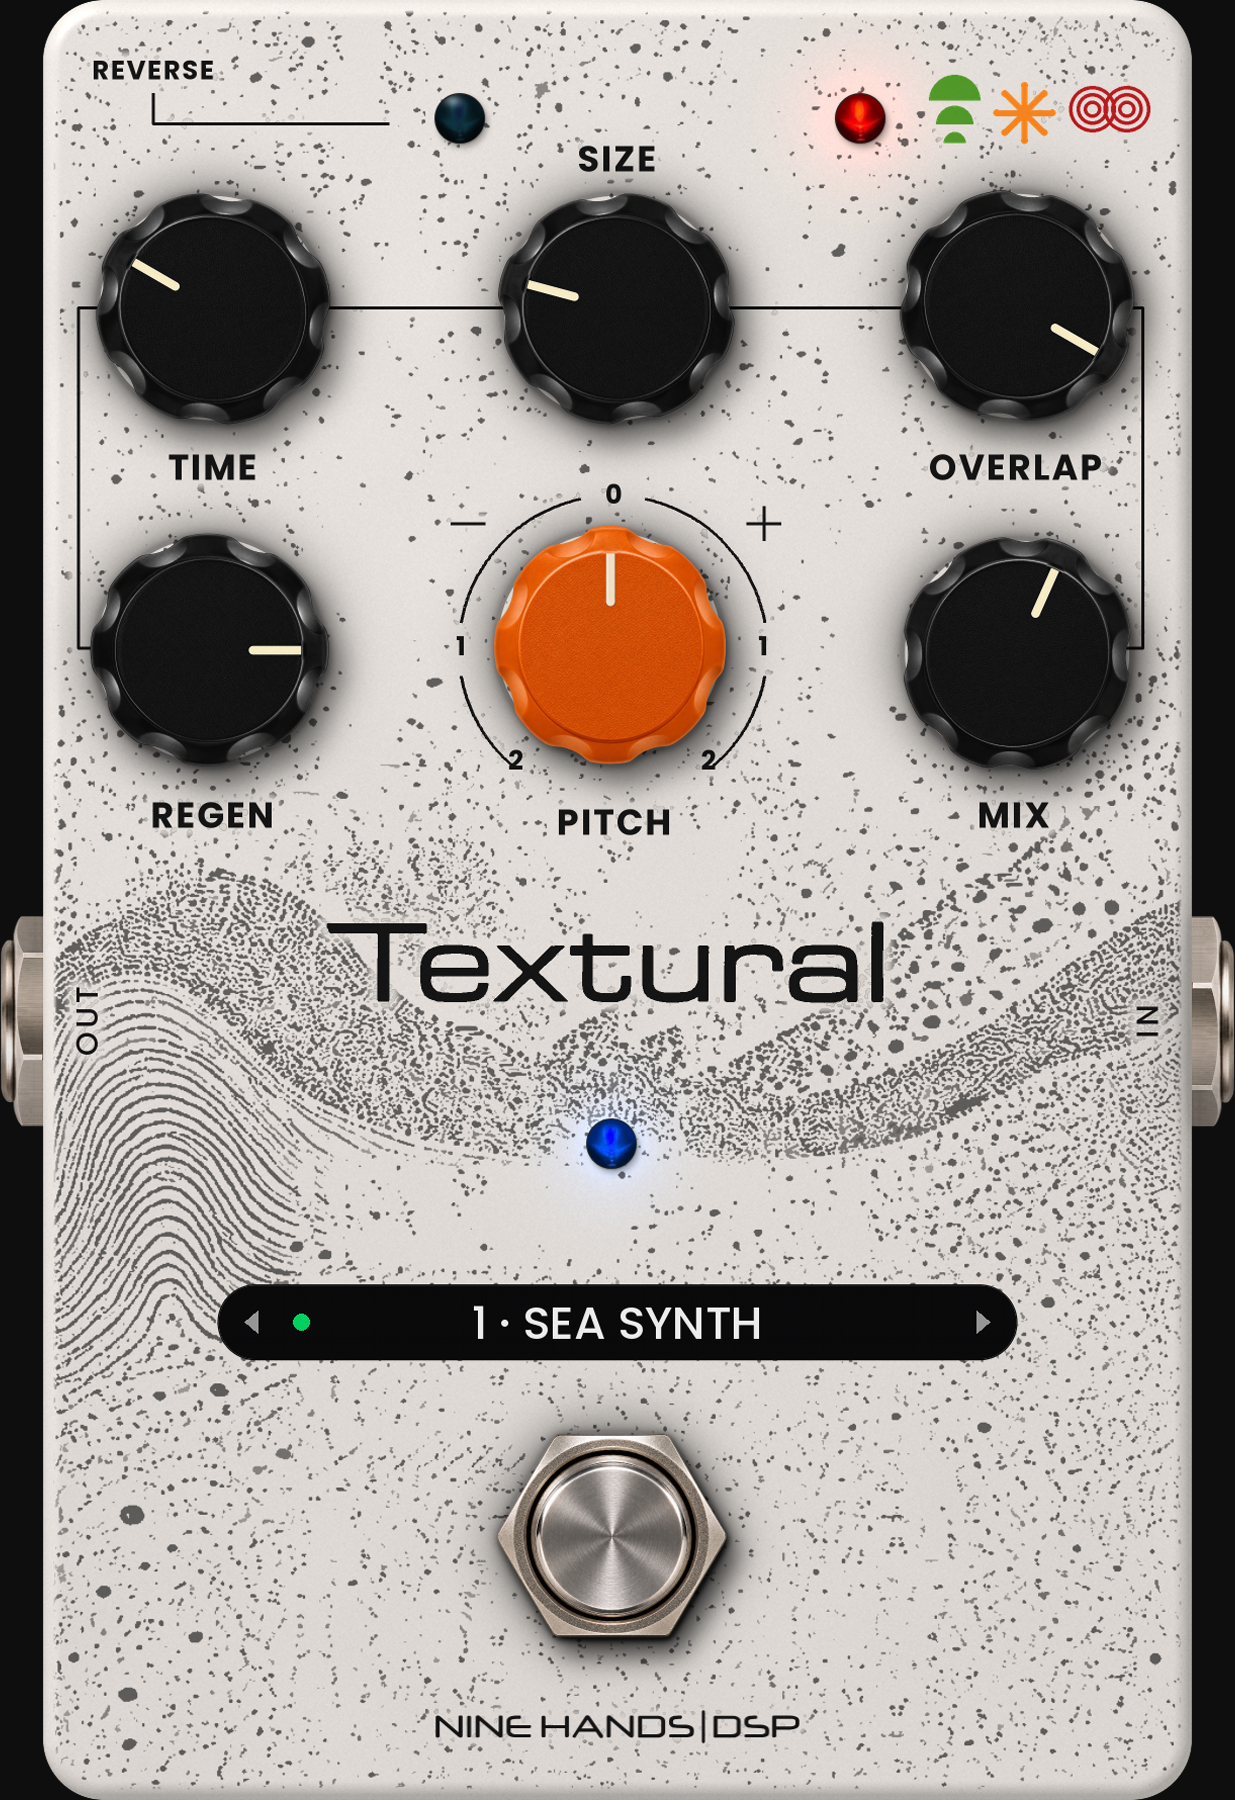
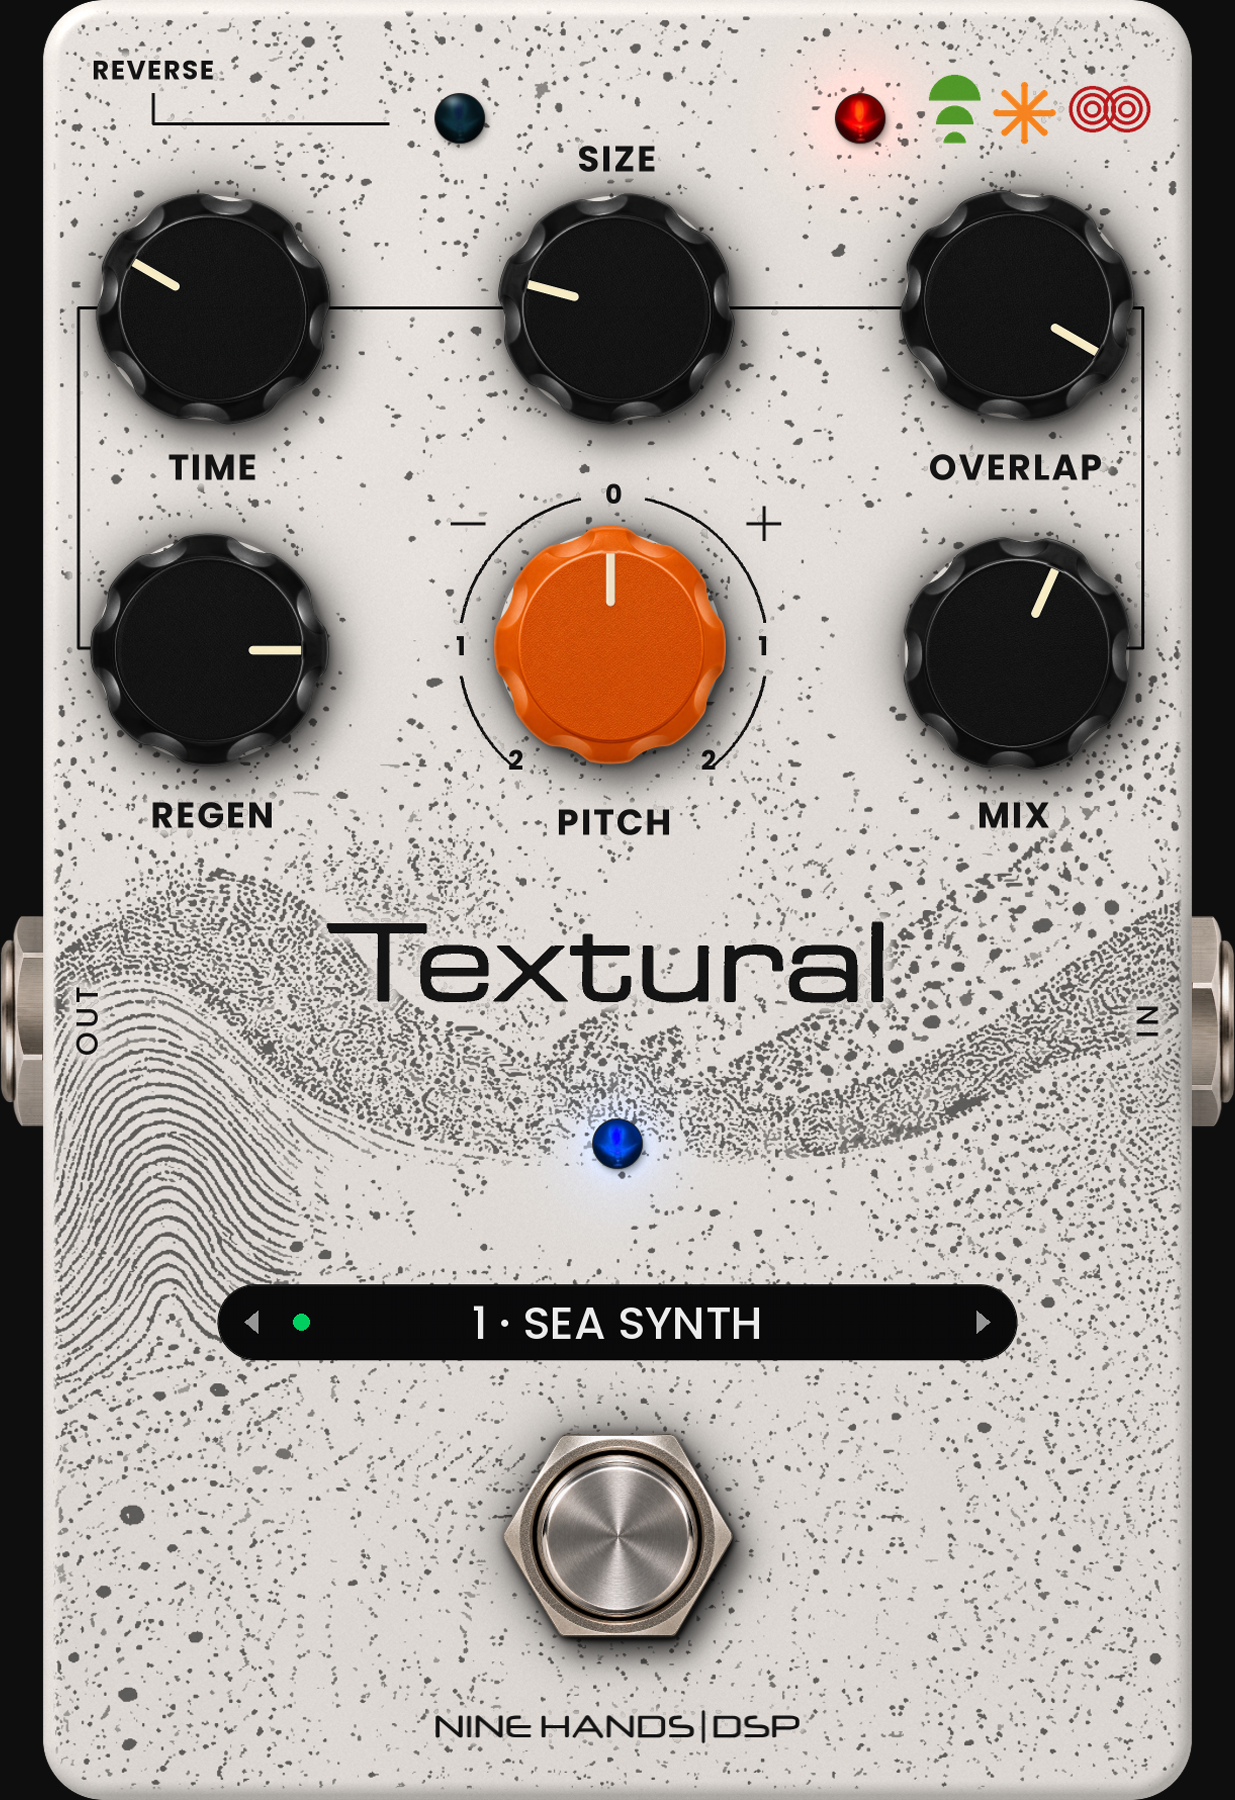
Apercu v2 : LED d'etat et footswitch sur l'axe de la pedale
Claude-Session: https://claude.ai/code/session_01DVineguNdVkvZ7sjaqqiCM

Changed region(s): [[0.4, 0.7778, 0.6154, 0.9333], [0.4615, 0.6222, 0.5231, 0.6533]]

diff --git a/tools/make_art.py b/tools/make_art.py
@@ -272,7 +272,7 @@ JACK_Y = float(0.5 * (min(_tys) + STATUS_LED[1] + LED_R * 1.16))
 text(PX0 + 22, JACK_Y, 'OUT', f_io, 2.0, 90)
 text(PX0 + PW - 22, JACK_Y, 'IN', f_io, 2.0, 90)
 # LED d'etat centree entre le bas du titre et le haut de la barre de presets (jacks inchanges)
-STATUS_LED = (STATUS_LED[0], float(0.5 * (max(_tys) + PILL[1])))
+STATUS_LED = (CX, float(0.5 * (max(_tys) + PILL[1])))          # LED sur l'axe vertical de la pedale (demande nov. 2026)
 print('LED : ecart titre', round(STATUS_LED[1] - max(_tys), 2), 'ecart barre', round(PILL[1] - STATUS_LED[1], 2))
 tl = Image.new('L', (KW, KH), 0); tdr = ImageDraw.Draw(tl)
 for i, pts in enumerate(title_paths):
@@ -292,7 +292,7 @@ ys, xs = np.nonzero(lg[..., 3] > 10); lg = lg[ys.min():ys.max() + 1, xs.min():xs
 lg = cv2.resize(lg, (int(LOGO_W * AS), int(round(lg.shape[0] * LOGO_W * AS / lg.shape[1]))), interpolation=cv2.INTER_AREA)
 LOGO_H = lg.shape[0] / AS
 # footswitch centre entre le bas de la barre de presets et le haut du logo (logo garde sa place)
-FS = (FS[0], float(0.5 * (PILL[1] + PILL[3] + LOGO_C[1] - LOGO_H / 2)))
+FS = (CX, float(0.5 * (PILL[1] + PILL[3] + LOGO_C[1] - LOGO_H / 2)))   # sur l'axe de la pedale
 print('footswitch : ecart barre', round(FS[1] - FS_FLATS / 2 - PILL[1] - PILL[3], 2), 'ecart logo', round(LOGO_C[1] - LOGO_H / 2 - FS[1] - FS_FLATS / 2, 2))
 logo_a = np.zeros((H, W), np.float32)
 lx0, ly0 = int(round((LOGO_C[0] - LOGO_W / 2) * AS)), int(round((LOGO_C[1] - LOGO_H / 2) * AS))
@@ -527,6 +527,7 @@ od.ellipse((dot - rr, cy - rr, dot + rr, cy + rr), fill=(0, 208, 96, 255))
 ova = np.asarray(ov).astype(np.float32)
 over(img, ova, 0, 0)
 
+if FINAL: img = PRE_PILL                        # la pastille est dessinee par le plugin
 # ------------------------------------------------------------------ 8. embases jack (kit)
 alpha = body.copy()
 for side in (-1, 1):
